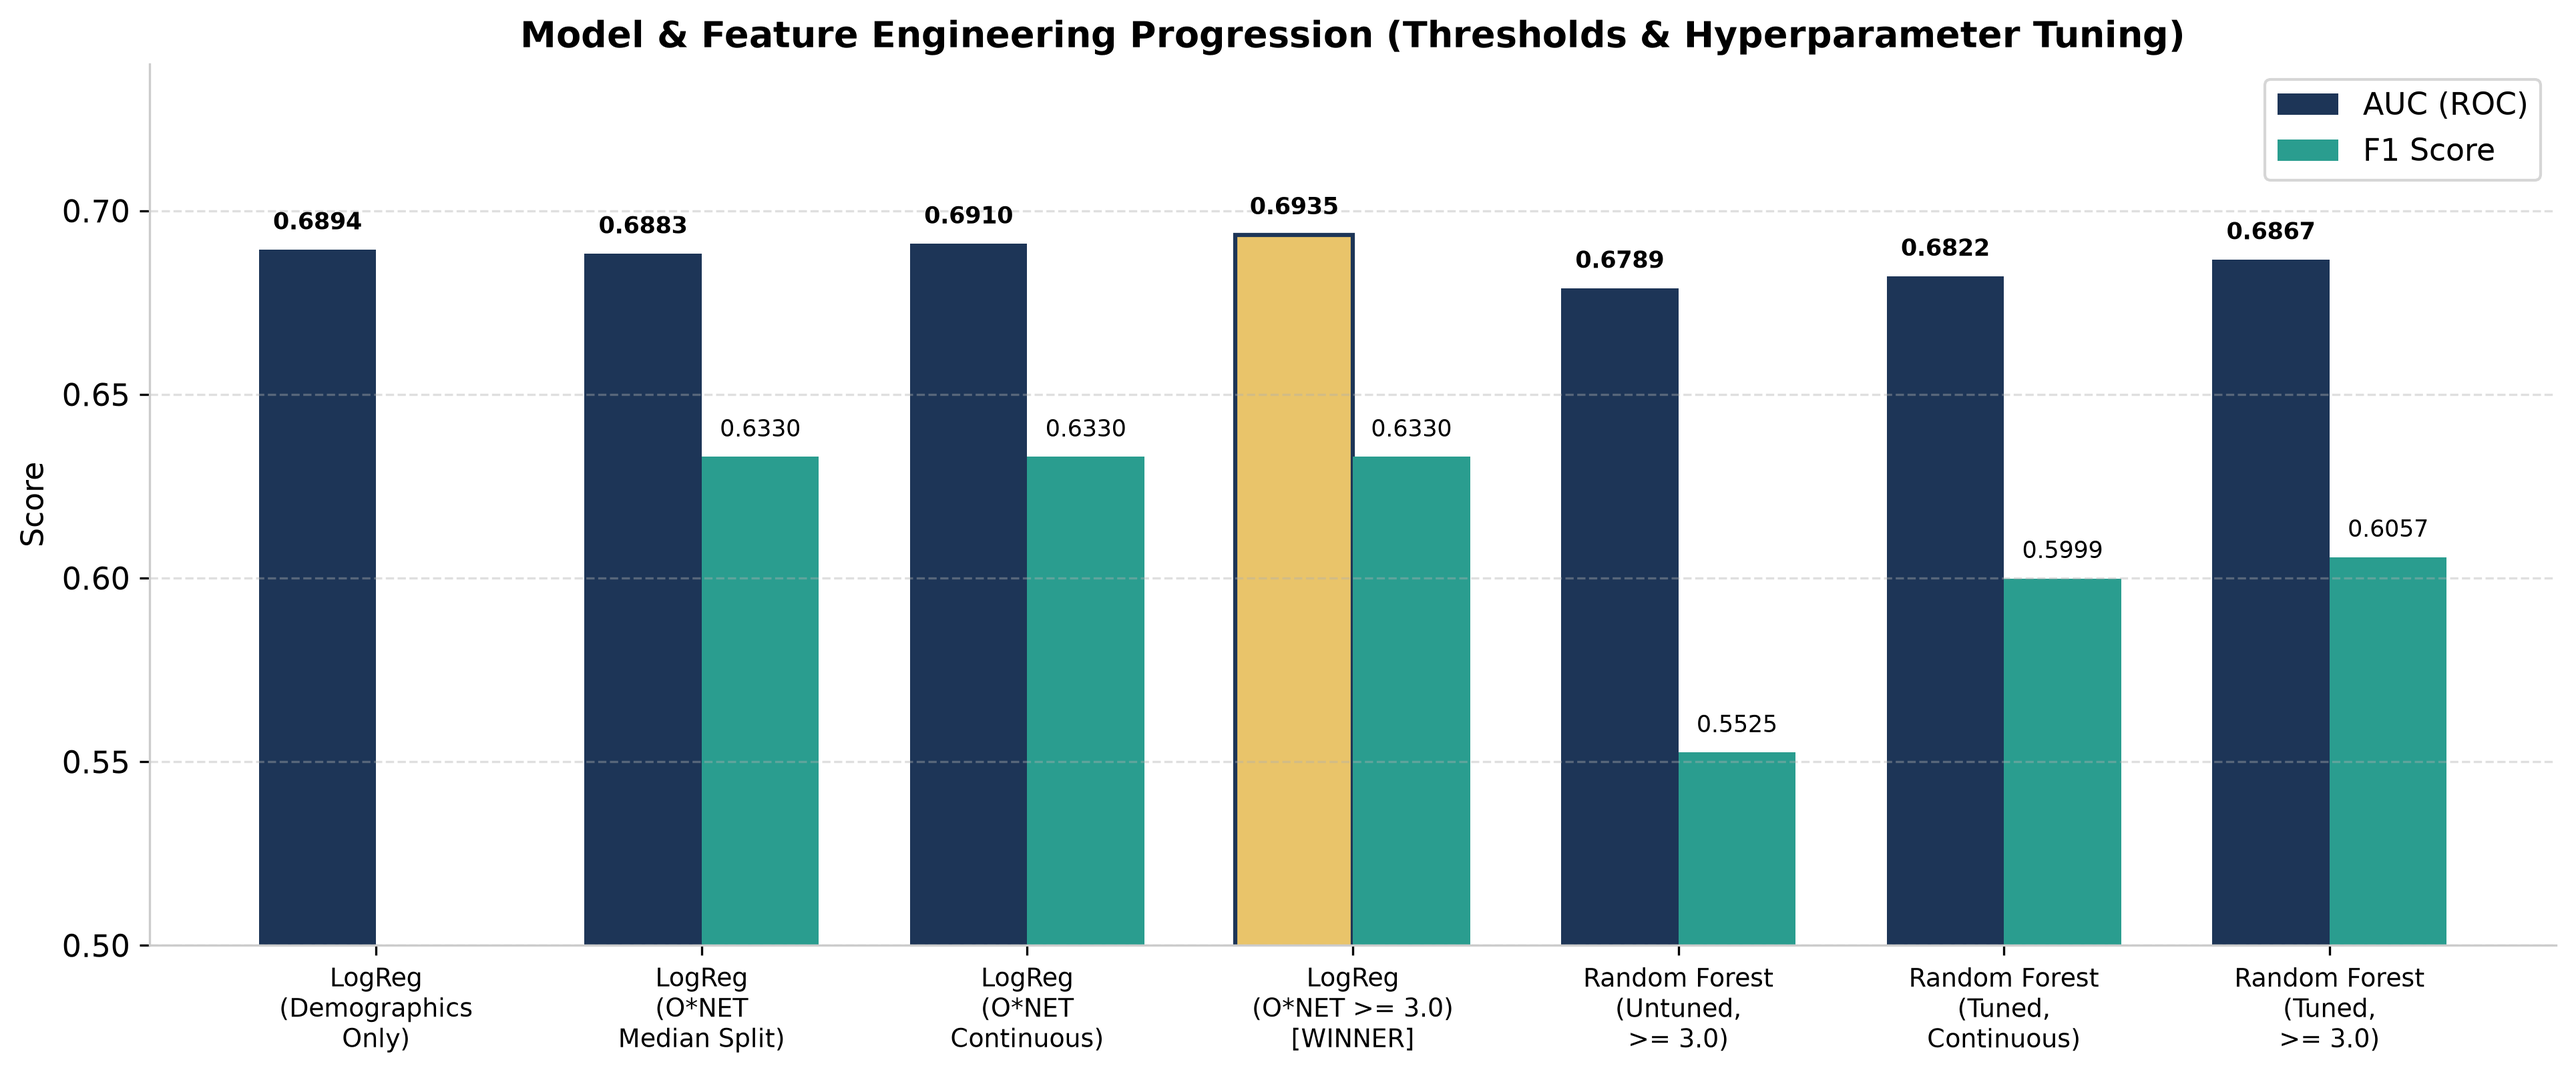
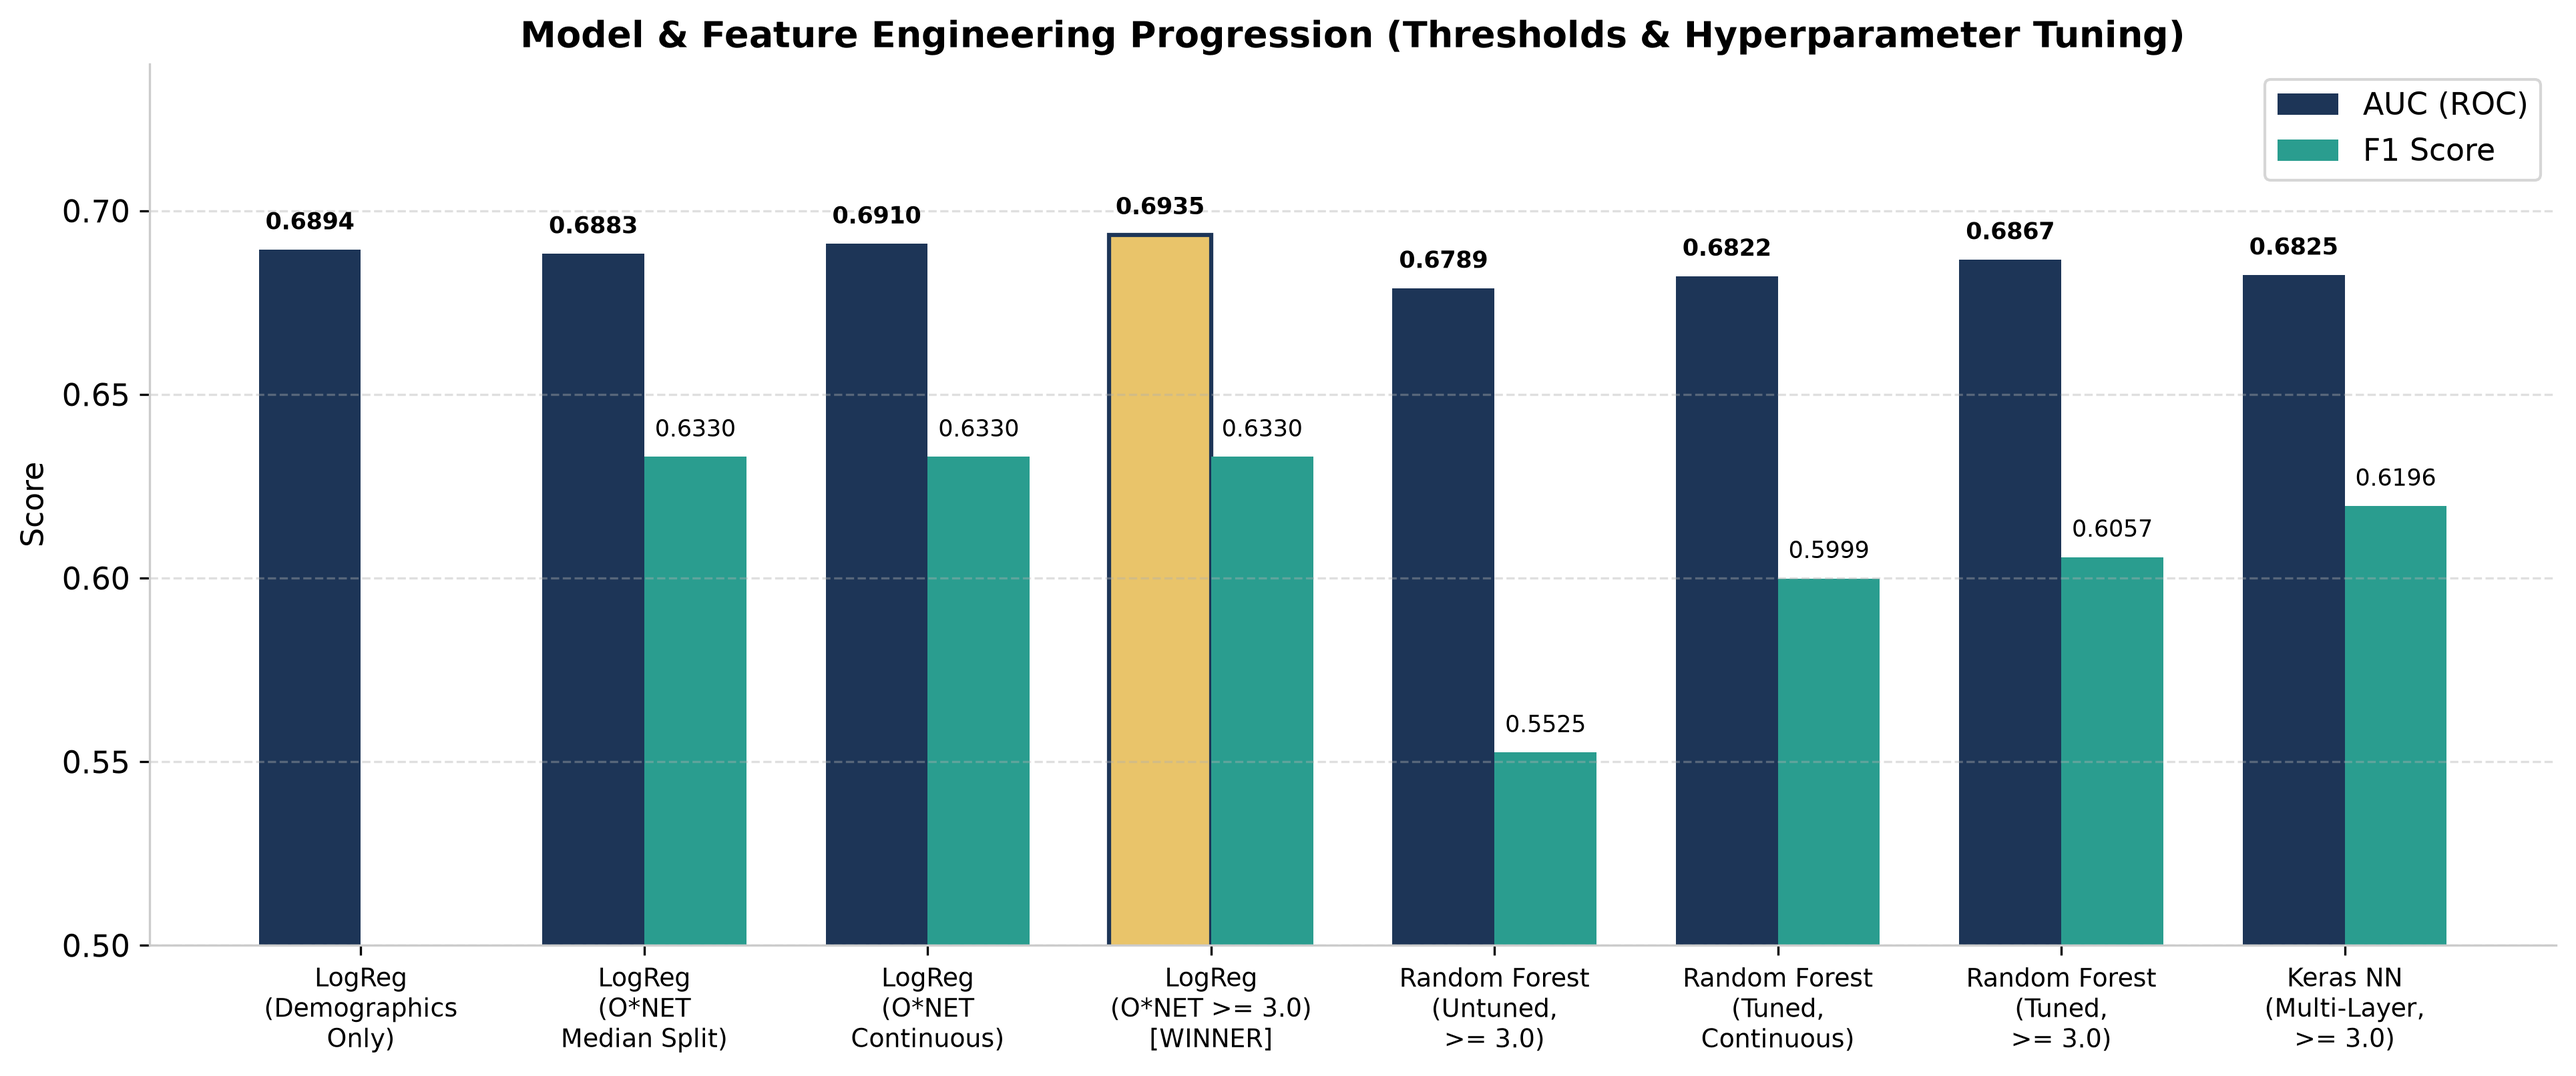
added NN workflow and updated visuals to reflect results

diff --git a/notebooks/gss_eda/modeling/ml_workflow_neuralnetwork.py b/notebooks/gss_eda/modeling/ml_workflow_neuralnetwork.py
@@ -1,0 +1,123 @@
+'''
+Neural Network model Test attempt 1 
+Data: O*NET + GSS 
+To prevent overfitting, keeping neural network depth shallow 
+and regularized. 
+
+Architecture: A 2-hidden-layer Multi-Layer Perceptron (64 -> 32 -> 1) 
+with ReLU activations and a sigmoid output for binary probabilities.
+
+Regularization: Dropout (0.3 and 0.2) plus EarlyStopping monitoring validation AUC 
+so training stops the moment it starts memorizing noise.
+
+Apples-to-Apples Comparison: Using the exact same random_state=42 split, 
+SimpleImputer, StandardScaler (required for NNs), and class_weight balancing 
+as Logistic Regression workflow script.
+
+'''
+
+import numpy as np
+import pandas as pd
+from pathlib import Path
+from sklearn.model_selection import train_test_split
+from sklearn.impute import SimpleImputer
+from sklearn.preprocessing import StandardScaler
+from sklearn.utils.class_weight import compute_class_weight
+from sklearn.metrics import roc_auc_score, mean_squared_error, f1_score
+
+import tensorflow as tf
+from tensorflow.keras.models import Sequential
+from tensorflow.keras.layers import Dense, Dropout, Input
+from tensorflow.keras.callbacks import EarlyStopping
+
+# Set seeds for reproducibility
+np.random.seed(42)
+tf.random.set_seed(42)
+
+# 1. Load Data (Make sure this is your >= 3.0 threshold dataset)
+data_path = Path(__file__).resolve().parent.parent / 'final_ml_dataset.csv'
+df = pd.read_csv(data_path).dropna(subset=['SATJOB_BINARY'])
+X = df.drop(columns=['SATJOB_BINARY'])
+y = df['SATJOB_BINARY'].astype(int)
+
+# 2. Identical Train/Test Split
+X_train, X_test, y_train, y_test = train_test_split(X, y, test_size=0.2, random_state=42)
+
+# 3. Impute & Scale (Required for Neural Networks)
+imputer = SimpleImputer(strategy='median')
+X_train_imp = imputer.fit_transform(X_train)
+X_test_imp = imputer.transform(X_test)
+
+scaler = StandardScaler()
+X_train_sc = scaler.fit_transform(X_train_imp)
+X_test_sc = scaler.transform(X_test_imp)
+
+# 4. Compute Balanced Class Weights (Matches class_weight='balanced' in sklearn)
+weights = compute_class_weight(class_weight='balanced', classes=np.unique(y_train), y=y_train)
+class_weight_dict = {0: weights[0], 1: weights[1]}
+
+from tensorflow.keras.layers import Dense, Dropout, Input, BatchNormalization
+from tensorflow.keras.regularizers import l2
+from tensorflow.keras.callbacks import EarlyStopping, ReduceLROnPlateau
+
+# 5. Build Tightly Regularized Tabular MLP
+model = Sequential([
+    Input(shape=(X_train_sc.shape[1],)),
+    Dense(32, activation='relu', kernel_regularizer=l2(0.01)),
+    BatchNormalization(),
+    Dropout(0.4),
+    Dense(16, activation='relu', kernel_regularizer=l2(0.01)),
+    BatchNormalization(),
+    Dropout(0.3),
+    Dense(1, activation='sigmoid')
+])
+
+model.compile(
+    optimizer=tf.keras.optimizers.AdamW(learning_rate=0.0005, weight_decay=1e-4),
+    loss='binary_crossentropy',
+    metrics=[tf.keras.metrics.AUC(name='auc')]
+)
+
+# 6. Callbacks: Decay LR on plateau, then stop early
+lr_scheduler = ReduceLROnPlateau(
+    monitor='val_auc',
+    mode='max',
+    factor=0.5,
+    patience=4,
+    min_lr=1e-5,
+    verbose=1
+)
+
+early_stop = EarlyStopping(
+    monitor='val_auc',
+    mode='max',
+    patience=12,
+    restore_best_weights=True
+)
+
+# 7. Train with smoother batch size
+history = model.fit(
+    X_train_sc, y_train,
+    validation_split=0.2,
+    epochs=120,
+    batch_size=64,
+    class_weight=class_weight_dict,
+    callbacks=[lr_scheduler, early_stop],
+    verbose=1
+)
+
+# 8. Evaluate on Test Set
+nn_pred_prob = model.predict(X_test_sc).ravel()
+nn_pred_class = (nn_pred_prob >= 0.5).astype(int)
+
+nn_auc = roc_auc_score(y_test, nn_pred_prob)
+nn_rmse = np.sqrt(mean_squared_error(y_test, nn_pred_prob))
+nn_f1 = f1_score(y_test, nn_pred_class)
+
+print("\n--- Keras Neural Network Results ---")
+print(f"AUC:  {nn_auc:.4f}")
+print(f"RMSE: {nn_rmse:.4f}")
+print(f"F1:   {nn_f1:.4f}")
+
+np.save('nn_probs.npy', nn_pred_prob)
+

diff --git a/notebooks/gss_eda/presentation_visuals/presentation_visuals.py b/notebooks/gss_eda/presentation_visuals/presentation_visuals.py
@@ -98,10 +98,11 @@ experiments = [
     'LogReg\n(O*NET >= 3.0)\n[WINNER]',
     'Random Forest\n(Untuned,\n>= 3.0)',
     'Random Forest\n(Tuned,\nContinuous)',
-    'Random Forest\n(Tuned,\n>= 3.0)'
+    'Random Forest\n(Tuned,\n>= 3.0)',
+    'Keras NN\n(Multi-Layer,\n>= 3.0)' # O*NET work values threshold of 3.0
 ]
-auc_scores = [0.6894, 0.6883, 0.6910, 0.6935, 0.6789, 0.6822, 0.6867]
-f1_scores  = [np.nan, 0.6330, 0.6330, 0.6330, 0.5525, 0.5999, 0.6057]
+auc_scores = [0.6894, 0.6883, 0.6910, 0.6935, 0.6789, 0.6822, 0.6867, 0.6825]
+f1_scores  = [np.nan, 0.6330, 0.6330, 0.6330, 0.5525, 0.5999, 0.6057, 0.6196]
 
 x = np.arange(len(experiments))
 width = 0.36
@@ -140,14 +141,14 @@ plt.close()
 # 3. VISUAL 3: DIVERGING BAR CHART (WINNING LOGISTIC REGRESSION DRIVERS)
 # ==============================================================================
 lr_labels = [
-    'Generally Not Too Happy',
-    'Pretty Happy (vs. Very Happy)',
-    'Mid-Income ($40k-$50k)',
-    'Finds Life Routine',
-    'Finds Life Dull',
+    'Generally Not Too Happy (HAPPY_3)',
+    'Pretty Happy (vs. Very Happy) (HAPPY_2)',
+    'Mid-Income ($40k-$50k) (RINCOM16_18)',
+    'Finds Life Routine (LIFE_2)',
+    'Finds Life Dull (LIFE_3)',
     'Strong Republican (Party ID)',
-    'Upper Class',
-    'Middle Class',
+    'Upper Class (CLASS_4)',
+    'Middle Class (CLASS_3)',
     'O*NET: High Independence',
     'Age (Years)'
 ]
@@ -179,14 +180,14 @@ plt.close()
 # ==============================================================================
 rf_labels = [
     'Years of Education',
-    'Fair Health',
+    'Fair Health (HEALTH_3)',
     'O*NET: High Achievement',
-    'Hours Worked / Week',
-    'Finds Life Routine',
+    'Hours Worked / Week (HRS1)',
+    'Finds Life Routine (LIFE_2)',
     'O*NET: High Independence',
-    'Never Married',
-    'Pretty Happy (vs. Very Happy)',
-    'Generally Not Too Happy',
+    'Never Married (MARITAL_5)',
+    'Pretty Happy (vs. Very Happy) (HAPPY_2)',
+    'Generally Not Too Happy (HAPPY_3)',
     'Age (Years)'
 ]
 rf_imps = [0.0233, 0.0264, 0.0284, 0.0427, 0.0543, 0.0677, 0.0695, 0.0785, 0.1199, 0.1611]

diff --git a/notebooks/gss_eda/modeling/ml_workflow_randomforest.py b/notebooks/gss_eda/modeling/ml_workflow_randomforest.py
@@ -65,18 +65,22 @@ print(importance_df.head(10).to_string(index=False))
 os.makedirs('presentation_visuals', exist_ok=True)
 
 y_pred_prob = np.load('lr_probs.npy')
+nn_pred_prob = np.load('nn_probs.npy')
 
 # Calculate ROC curves and AUCs
 fpr_lr, tpr_lr, _ = roc_curve(y_test, y_pred_prob)
 fpr_rf, tpr_rf, _ = roc_curve(y_test, rf_pred_prob)
+fpr_nn, tpr_nn, _ = roc_curve(y_test, nn_pred_prob)
 
 lr_auc = roc_auc_score(y_test, y_pred_prob)
 rf_auc = roc_auc_score(y_test, rf_pred_prob)
+nn_auc = roc_auc_score(y_test, nn_pred_prob)
 
 # Plot with matching presentation palette
 fig, ax = plt.subplots(figsize=(7.5, 6))
 ax.plot(fpr_lr, tpr_lr, label=f'Logistic Regression (AUC = {lr_auc:.4f})', color='#1D3557', linewidth=2.5)
 ax.plot(fpr_rf, tpr_rf, label=f'Tuned Random Forest (AUC = {rf_auc:.4f})', color='#E76F51', linewidth=2.5)
+ax.plot(fpr_nn, tpr_nn, label=f'Keras Neural Network (AUC = {nn_auc:.4f})', color="#51E7B5", linewidth=2.5)
 ax.plot([0, 1], [0, 1], linestyle='--', color='#6C757D', label='Random Guessing (AUC = 0.5000)', alpha=0.7)
 
 ax.set_title('ROC Curve Comparison (O*NET >= 3.0 Threshold)', fontsize=13, fontweight='bold')
